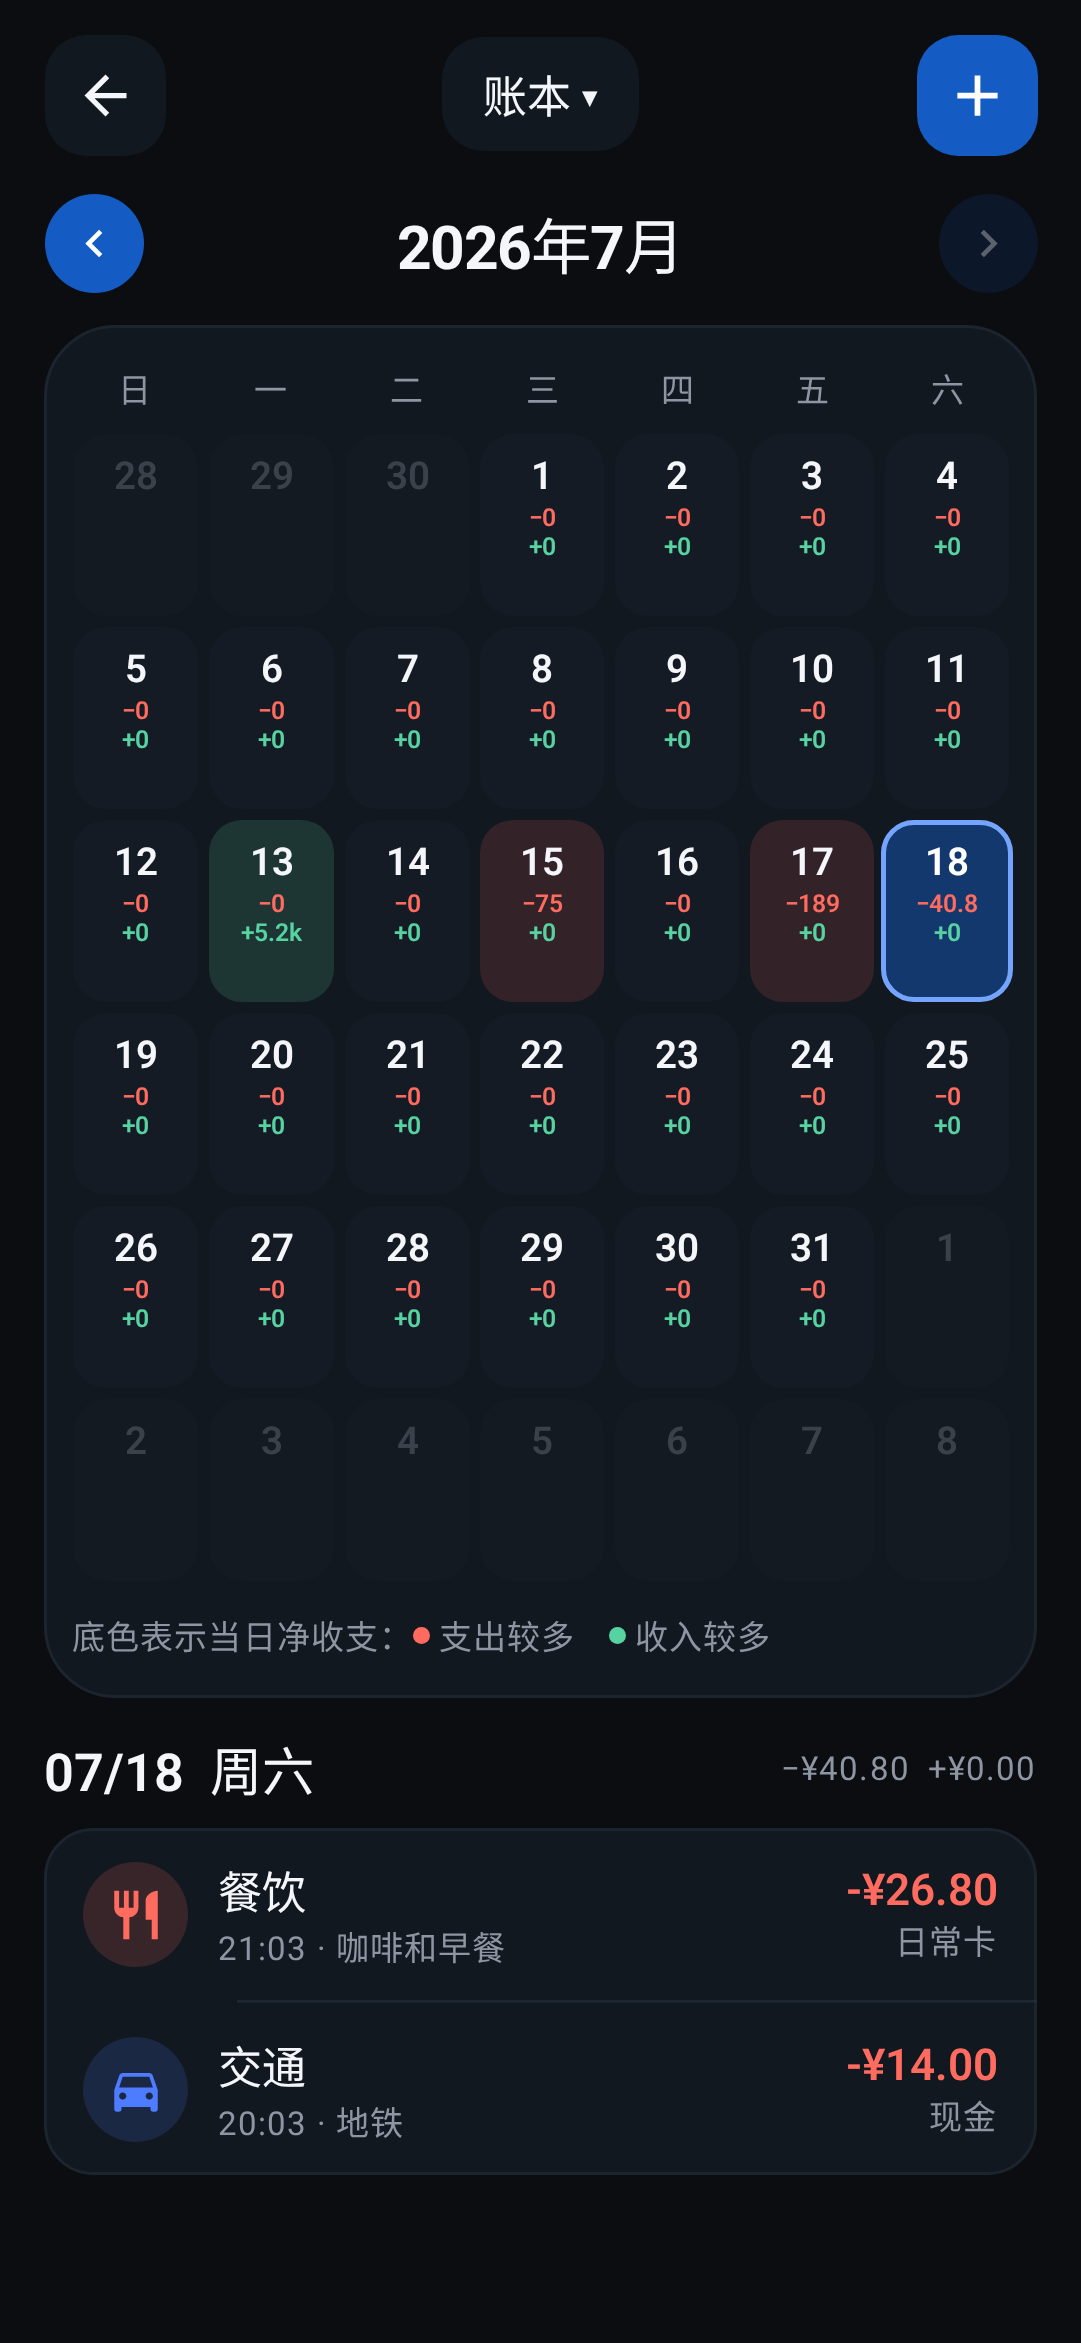
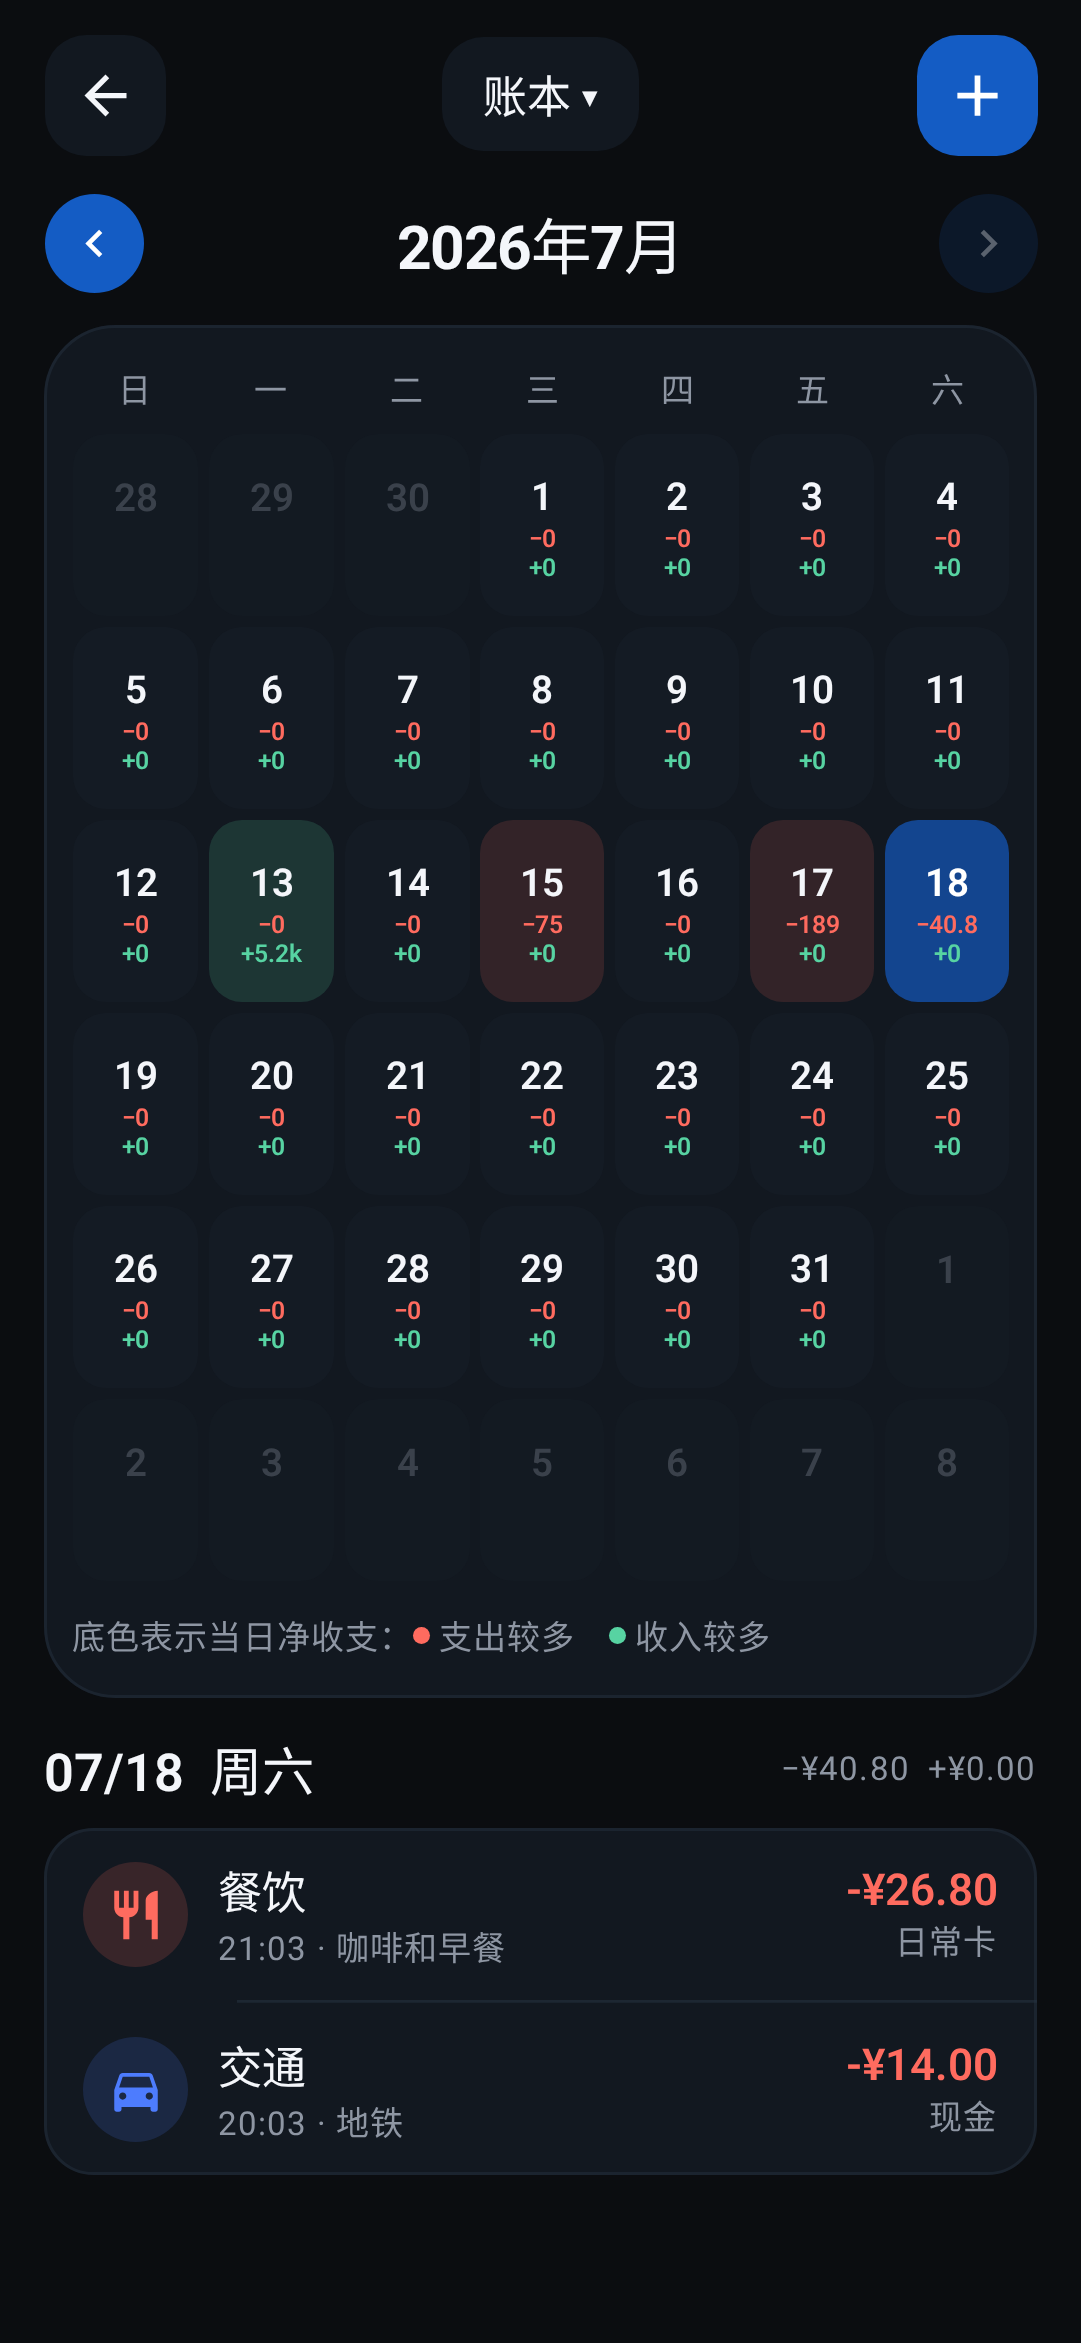
fix: unify calendar selection highlight

diff --git a/app/src/main/java/com/oneledger/app/ui/screens/IncomeExpenseCalendarScreen.kt b/app/src/main/java/com/oneledger/app/ui/screens/IncomeExpenseCalendarScreen.kt
@@ -1,5 +1,7 @@
 package com.oneledger.app.ui.screens
 
+import androidx.compose.animation.animateColorAsState
+import androidx.compose.animation.core.tween
 import androidx.compose.foundation.background
 import androidx.compose.foundation.border
 import androidx.compose.foundation.layout.Arrangement
@@ -52,7 +54,6 @@ import com.oneledger.app.ui.components.OneLedgerCard
 import com.oneledger.app.ui.components.PressableSurface
 import com.oneledger.app.ui.components.colorFromLong
 import com.oneledger.app.ui.theme.BrandBlue
-import com.oneledger.app.ui.theme.BrandBlueLight
 import com.oneledger.app.ui.theme.ExpenseCoral
 import com.oneledger.app.ui.theme.IncomeMint
 import com.oneledger.app.ui.theme.SavingsAmber
@@ -76,12 +77,18 @@ fun IncomeExpenseCalendarScreen(
     onQuickAdd: () -> Unit,
     modifier: Modifier = Modifier,
     nowMillis: Long = System.currentTimeMillis(),
+    initialSelectedDayStart: Long? = null,
 ) {
     var monthOffset by rememberSaveable { mutableIntStateOf(0) }
     val monthWindow = remember(monthOffset, nowMillis) { MonthWindow.offset(monthOffset, nowMillis) }
-    var selectedDayStart by rememberSaveable(monthWindow.start) {
+    var selectedDayStart by rememberSaveable(monthWindow.start, initialSelectedDayStart) {
+        val requestedDay = initialSelectedDayStart?.startOfLocalDay()
         mutableLongStateOf(
-            if (nowMillis.isIn(monthWindow)) nowMillis.startOfLocalDay() else monthWindow.start,
+            when {
+                requestedDay != null && requestedDay.isIn(monthWindow) -> requestedDay
+                nowMillis.isIn(monthWindow) -> nowMillis.startOfLocalDay()
+                else -> monthWindow.start
+            },
         )
     }
     val cells = remember(monthWindow) { monthWindow.calendarDateCells() }
@@ -129,7 +136,6 @@ fun IncomeExpenseCalendarScreen(
                         cells = cells,
                         transactionsByDay = transactionsByDay,
                         selectedDayStart = selectedDayStart,
-                        todayStart = nowMillis.startOfLocalDay(),
                         onDaySelected = { selectedDayStart = it },
                     )
                 }
@@ -243,7 +249,6 @@ private fun CalendarGrid(
     cells: List<CalendarDateCell>,
     transactionsByDay: Map<String, List<TransactionListItem>>,
     selectedDayStart: Long,
-    todayStart: Long,
     onDaySelected: (Long) -> Unit,
 ) {
     Column(Modifier.padding(horizontal = 10.dp, vertical = 14.dp)) {
@@ -277,7 +282,6 @@ private fun CalendarGrid(
                         expenseMinor = expense,
                         incomeMinor = income,
                         selected = selectedDayStart == cell.startMillis,
-                        today = todayStart == cell.startMillis,
                         onClick = { if (cell.inCurrentMonth) onDaySelected(cell.startMillis) },
                         modifier = Modifier.weight(1f),
                     )
@@ -302,42 +306,41 @@ private fun CalendarDayCell(
     expenseMinor: Long,
     incomeMinor: Long,
     selected: Boolean,
-    today: Boolean,
     onClick: () -> Unit,
     modifier: Modifier = Modifier,
 ) {
-    val background = when {
+    val targetBackground = when {
         !cell.inCurrentMonth -> MaterialTheme.colorScheme.surfaceVariant.copy(alpha = 0.24f)
-        today -> BrandBlue.copy(alpha = 0.48f)
+        selected -> BrandBlue.copy(alpha = 0.68f)
         expenseMinor > incomeMinor -> ExpenseCoral.copy(alpha = 0.14f)
         incomeMinor > expenseMinor -> IncomeMint.copy(alpha = 0.16f)
         else -> MaterialTheme.colorScheme.surfaceVariant.copy(alpha = 0.40f)
     }
+    val background by animateColorAsState(
+        targetValue = targetBackground,
+        animationSpec = tween(140),
+        label = "calendar-selection",
+    )
     PressableSurface(
         onClick = onClick,
         enabled = cell.inCurrentMonth,
-        modifier = modifier
-            .height(66.dp)
-            .then(
-                when {
-                    today -> Modifier.border(1.5.dp, BrandBlueLight, RoundedCornerShape(12.dp))
-                    selected -> Modifier.border(1.5.dp, BrandBlue, RoundedCornerShape(12.dp))
-                    else -> Modifier
-                },
-            ),
+        modifier = modifier.height(66.dp),
         color = background,
         shape = RoundedCornerShape(12.dp),
     ) {
         Column(
-            modifier = Modifier.padding(horizontal = 3.dp, vertical = 5.dp),
+            modifier = Modifier
+                .fillMaxSize()
+                .padding(horizontal = 3.dp, vertical = 5.dp),
             horizontalAlignment = Alignment.CenterHorizontally,
+            verticalArrangement = Arrangement.Center,
         ) {
             Box(modifier = Modifier.height(20.dp), contentAlignment = Alignment.Center) {
                 Text(
                     cell.dayNumber.toString(),
                     style = MaterialTheme.typography.labelLarge,
                     color = when {
-                        today -> Color.White
+                        selected -> Color.White
                         cell.inCurrentMonth -> MaterialTheme.colorScheme.onSurface
                         else -> MaterialTheme.colorScheme.onSurfaceVariant.copy(alpha = 0.32f)
                     },

diff --git a/app/src/screenshotTest/kotlin/com/oneledger/app/ui/OneLedgerScreenshotTest.kt b/app/src/screenshotTest/kotlin/com/oneledger/app/ui/OneLedgerScreenshotTest.kt
@@ -1,7 +1,11 @@
 package com.oneledger.app.ui
 
 import android.content.res.Configuration
+import androidx.compose.foundation.layout.fillMaxSize
+import androidx.compose.material3.MaterialTheme
+import androidx.compose.material3.Surface
 import androidx.compose.runtime.Composable
+import androidx.compose.ui.Modifier
 import androidx.compose.ui.tooling.preview.Preview
 import com.android.tools.screenshot.PreviewTest
 import com.oneledger.app.data.local.AccountEntity
@@ -14,8 +18,9 @@ import com.oneledger.app.domain.model.SavingsMethod
 import com.oneledger.app.domain.model.TransactionType
 import com.oneledger.app.ui.components.QuickAddPreviewSurface
 import com.oneledger.app.ui.components.TransactionDateTimePreviewSurface
-import com.oneledger.app.ui.theme.OneLedgerTheme
 import com.oneledger.app.ui.screens.BudgetEditorPreviewSurface
+import com.oneledger.app.ui.screens.IncomeExpenseCalendarScreen
+import com.oneledger.app.ui.theme.OneLedgerTheme
 import com.oneledger.app.util.MonthWindow
 import java.util.Calendar
 
@@ -60,6 +65,23 @@ fun BudgetEditorScreenshot() {
 @Preview(name = "收支日历 · 深色", device = PHONE, uiMode = Configuration.UI_MODE_NIGHT_YES, showSystemUi = true)
 @Composable
 fun IncomeExpenseCalendarScreenshot() = PreviewLedgerPage(LedgerPage.CALENDAR)
+
+@PreviewTest
+@Preview(name = "收支日历 · 改选日期", device = PHONE, uiMode = Configuration.UI_MODE_NIGHT_YES, showSystemUi = true)
+@Composable
+fun IncomeExpenseCalendarSelectedDayScreenshot() {
+    OneLedgerTheme(darkTheme = true) {
+        Surface(modifier = Modifier.fillMaxSize(), color = MaterialTheme.colorScheme.background) {
+            IncomeExpenseCalendarScreen(
+                state = previewState(),
+                onBack = {},
+                onQuickAdd = {},
+                nowMillis = PREVIEW_NOW,
+                initialSelectedDayStart = daysAgo(PREVIEW_NOW, 6),
+            )
+        }
+    }
+}
 
 @PreviewTest
 @Preview(name = "快速记账 · 深色", device = PHONE, uiMode = Configuration.UI_MODE_NIGHT_YES, showSystemUi = true)